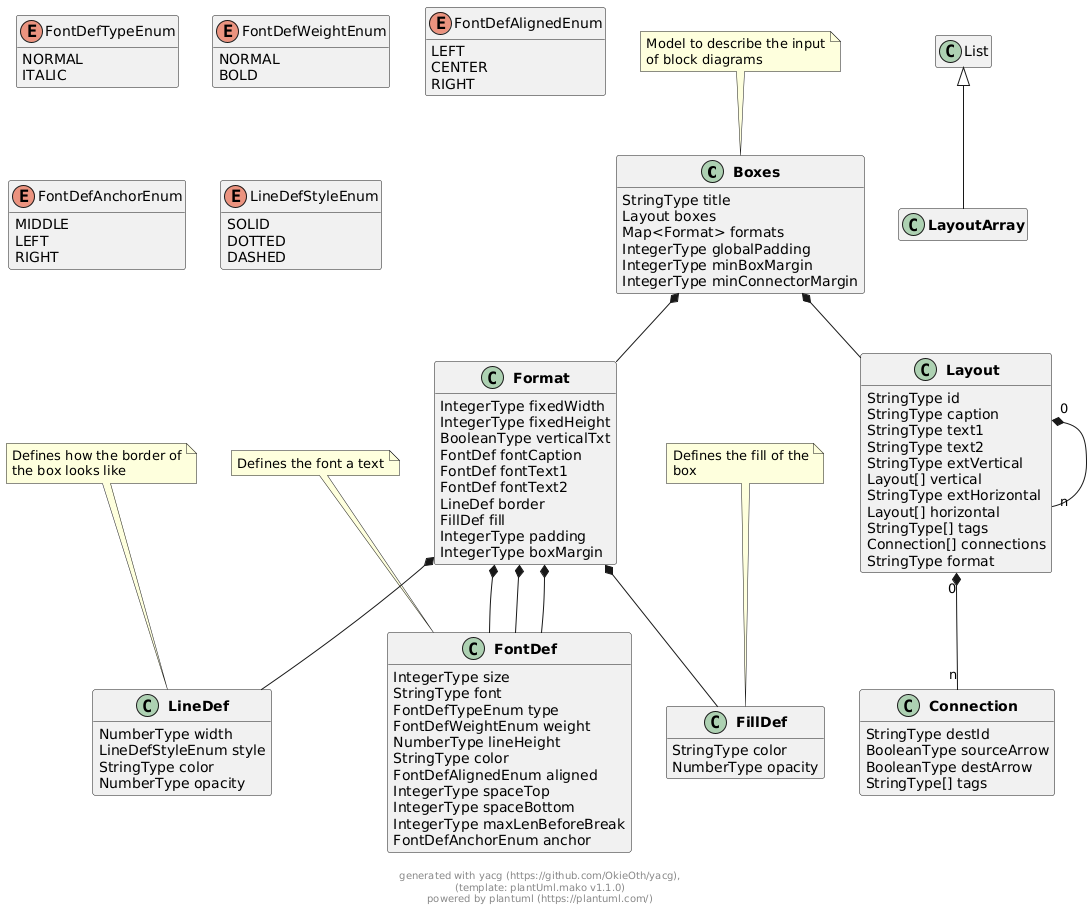
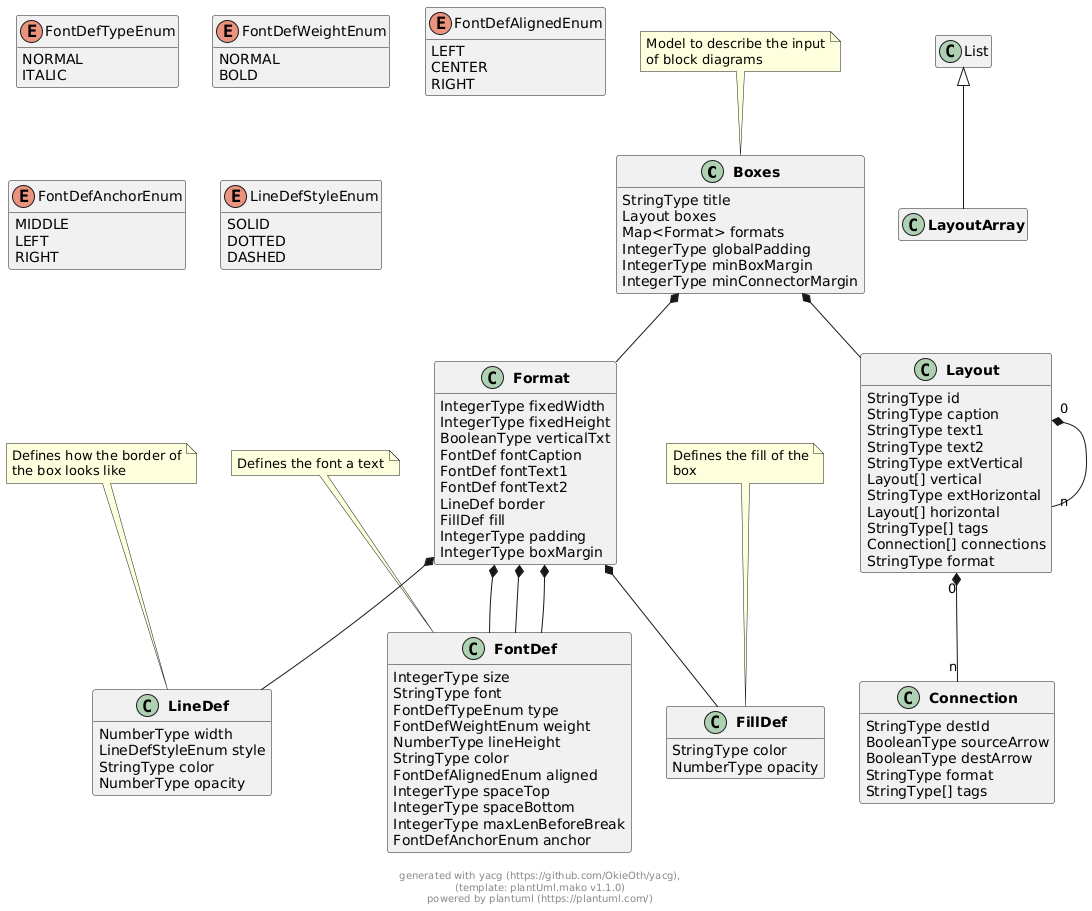
add format option for boxes connections

Changed region(s): [[0.7784, 0.7377, 0.9652, 0.8913]]

diff --git a/pkg/boxesimpl/boxesimpl.go b/pkg/boxesimpl/boxesimpl.go
@@ -42,6 +42,7 @@ func DrawBoxesFromFile(inputFile, outputFile string) error {
 	output, err := os.Create(outputFile)
 	svgdrawing := svgdrawing.NewDrawing(output)
 	svgdrawing.Start(doc.Title, doc.Height, doc.Width)
+	svgdrawing.DrawRaster(doc.Width, doc.Height, types.RasterSize)
 	doc.DrawBoxes(svgdrawing)
 	doc.DrawConnections(svgdrawing)
 	svgdrawing.Done()
@@ -105,6 +106,7 @@ func DrawBoxesFiltered(layout boxes.Boxes, defaultDepth int, filter []string) UI
 	var svgBuilder strings.Builder
 	svgdrawing := svgdrawing.NewDrawing(&svgBuilder)
 	svgdrawing.Start(doc.Title, doc.Height, doc.Width)
+	svgdrawing.DrawRaster(doc.Width, doc.Height, types.RasterSize)
 	doc.DrawBoxes(svgdrawing)
 	doc.DrawConnections(svgdrawing)
 	svgdrawing.Done()

diff --git a/pkg/types/boxes/boxes.go b/pkg/types/boxes/boxes.go
@@ -208,6 +208,9 @@ type Connection struct {
     // Arrow at the destination box
     DestArrow bool  `yaml:"destArrow"`
 
+    // optional format to style the connection
+    Format *string  `yaml:"format,omitempty"`
+
     // Tags to annotate the connection, tags are used to format
     Tags []string  `yaml:"tags,omitempty"`
 }
@@ -226,6 +229,7 @@ func CopyConnection(src *Connection) *Connection {
     ret.DestId = src.DestId
     ret.SourceArrow = src.SourceArrow
     ret.DestArrow = src.DestArrow
+    ret.Format = src.Format
     ret.Tags = make([]string, 0)
     for _, e := range src.Tags {
         ret.Tags = append(ret.Tags, e)
